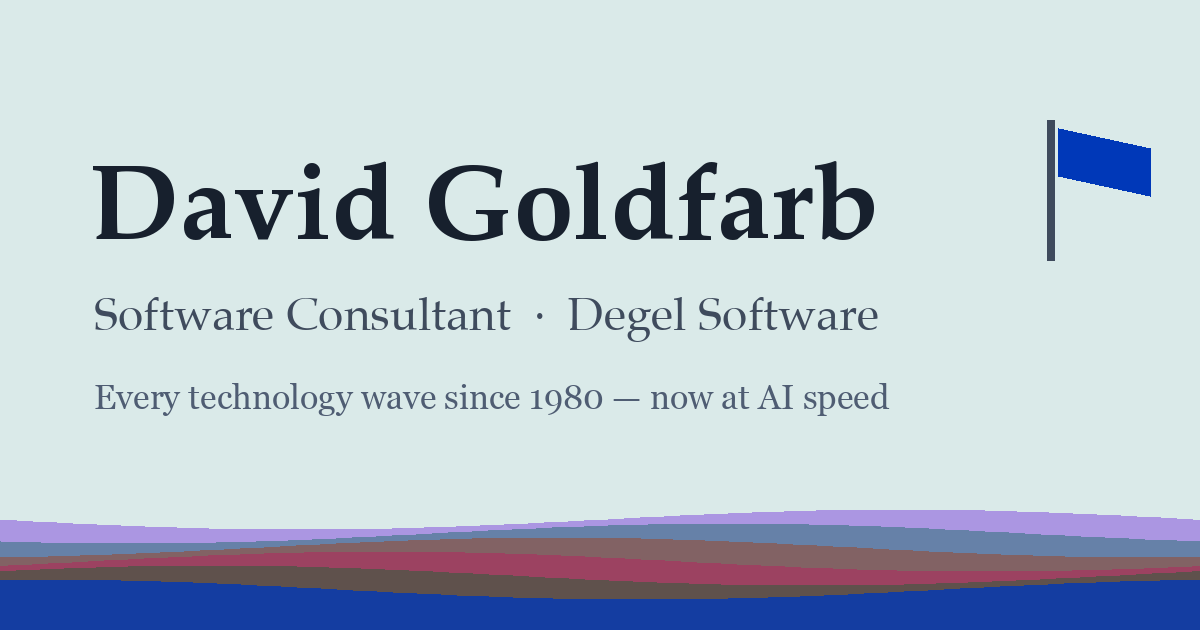
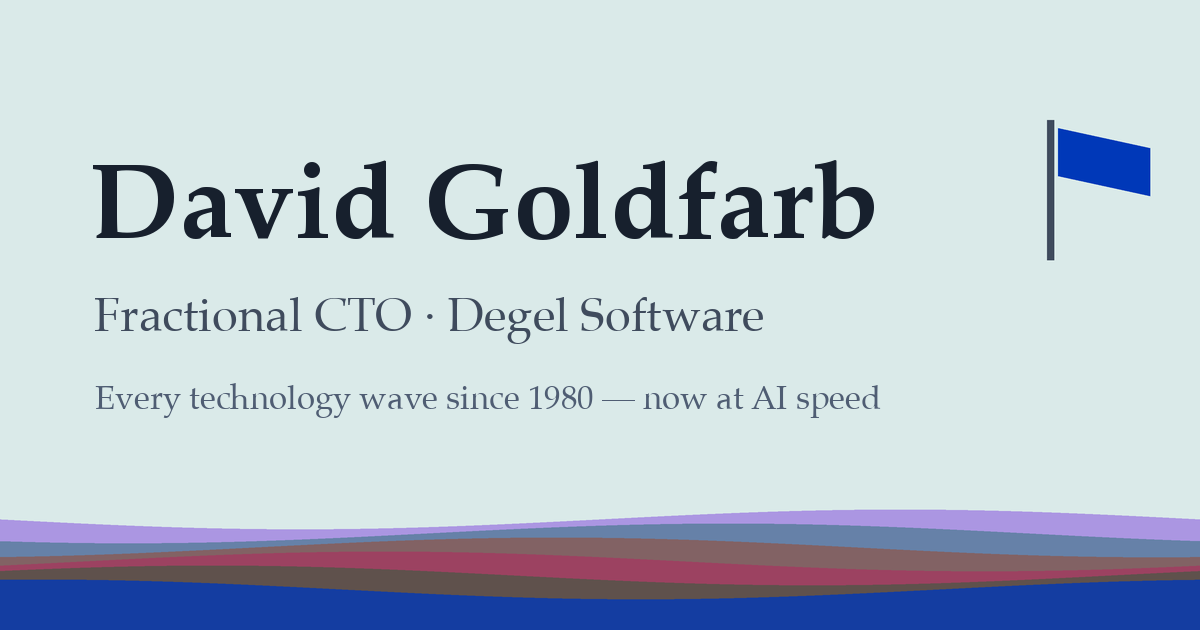
Deploy: Valid ProfessionalService offer catalog, and an og.png that says Fractional CTO

diff --git a/index.html b/index.html
@@ -381,14 +381,72 @@ footer { border-top: 1px solid var(--line); padding: 2.2rem 0 3rem; }
       "telephone": "+972-54-723-0120",
       "address": {"@type": "PostalAddress", "addressLocality": "Beit Shemesh", "addressCountry": "IL"},
       "areaServed": "Worldwide",
-      "serviceType": [
-        "Fractional CTO",
-        "AI prototyping",
-        "AI development workflow coaching",
-        "Technical due diligence",
-        "Technology research and evaluation",
-        "Software patent technical consulting"
-      ]
+      "hasOfferCatalog": {
+        "@type": "OfferCatalog",
+        "name": "Services",
+        "itemListElement": [
+          {
+            "@type": "Offer",
+            "itemOffered": {
+              "@type": "Service",
+              "@id": "https://degel.com/#svc-fractional-cto",
+              "name": "Fractional CTO",
+              "serviceType": "Fractional CTO",
+              "provider": {"@id": "https://degel.com/#degel"}
+            }
+          },
+          {
+            "@type": "Offer",
+            "itemOffered": {
+              "@type": "Service",
+              "@id": "https://degel.com/#svc-ai-prototyping",
+              "name": "AI prototyping",
+              "serviceType": "AI prototyping",
+              "provider": {"@id": "https://degel.com/#degel"}
+            }
+          },
+          {
+            "@type": "Offer",
+            "itemOffered": {
+              "@type": "Service",
+              "@id": "https://degel.com/#svc-ai-workflow-coaching",
+              "name": "AI development workflow coaching",
+              "serviceType": "AI development workflow coaching",
+              "provider": {"@id": "https://degel.com/#degel"}
+            }
+          },
+          {
+            "@type": "Offer",
+            "itemOffered": {
+              "@type": "Service",
+              "@id": "https://degel.com/#svc-technical-due-diligence",
+              "name": "Technical due diligence",
+              "serviceType": "Technical due diligence",
+              "provider": {"@id": "https://degel.com/#degel"}
+            }
+          },
+          {
+            "@type": "Offer",
+            "itemOffered": {
+              "@type": "Service",
+              "@id": "https://degel.com/#svc-technology-research",
+              "name": "Technology research and evaluation",
+              "serviceType": "Technology research and evaluation",
+              "provider": {"@id": "https://degel.com/#degel"}
+            }
+          },
+          {
+            "@type": "Offer",
+            "itemOffered": {
+              "@type": "Service",
+              "@id": "https://degel.com/#svc-patent-technical-consulting",
+              "name": "Software patent technical consulting",
+              "serviceType": "Software patent technical consulting",
+              "provider": {"@id": "https://degel.com/#degel"}
+            }
+          }
+        ]
+      }
     }
   ]
 }
